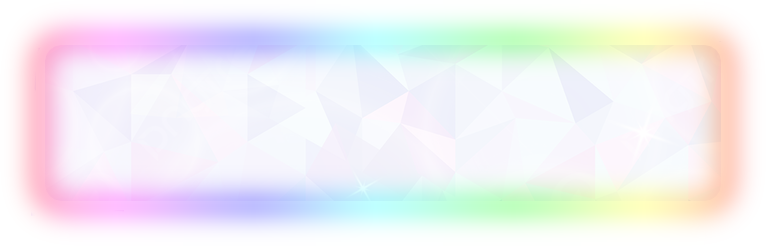
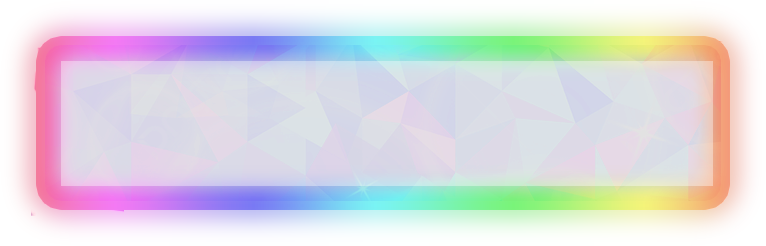
latest gacha

diff --git a/routes/gachaScreen/+page.svelte b/routes/gachaScreen/+page.svelte
@@ -6,6 +6,7 @@
     import bannerBG from "../../lib/assets/gacha/bannerBg.png"
     import bannerText from "../../lib/assets/gacha/bannerText.png"
     import rollCard from "../../lib/assets/gacha/rollBg.png"
+    import stars from "../../lib/assets/gacha/stars.png"
 
     var whichBanner //if SN banner active true : false
     var isRolling = false
@@ -44,6 +45,7 @@
             rollCard = "../../lib/assets/gacha/roll3star.png"
         }
     }
+    
 </script>
 
 {#if isRolling}
@@ -80,6 +82,7 @@
     {/if}
 
     <img class="bannerBg" style="z-index: -2;" src={bannerBG} alt="banners background">
+    <img id="bannerStars" src={stars} alt="stars">
 
     <div id="pullButtonDiv">
         <button class="pullButtons" on:click={() => ShowPull(1)}>Pull 1</button><br>
@@ -98,12 +101,12 @@
 
     #rollScreen{
         z-index: 2;
-        width: 100%;
+        width: 100vw;
         height: 100vh;
         background-color: rgba(44, 44, 63, 0.826);
         position: absolute;
         text-align: center;
-        padding-top: 9vh;
+        padding-top: 14vh;
         
     }
     #rollContainer{
@@ -113,7 +116,7 @@
         margin-inline: 0;
         display: flex;
         margin: auto;
-        width: 80%;
+        width: 80vw;
     }
     #rollsDiv{
         position: absolute;
@@ -124,7 +127,7 @@
         top: 30vh;
     }
     .rollCard{
-        height: 76vh;
+        width: 6vw;
         z-index: 3;
         margin: auto;
         padding: 0;
@@ -177,7 +180,7 @@
     }
     .pullButtons:hover{
         transform: scale(1.06);
-        animation: hueChange 3s linear infinite;
+        animation: hueChange 1s linear infinite;
     }
 
     @keyframes hueChange {
@@ -187,7 +190,15 @@
     100% {
         filter: hue-rotate(360deg);
     }
-}
+    }
+
+    #bannerStars{
+        position: absolute;
+        left: 17vw;
+        top: 0;
+        width: 66vw;
+        animation: hueChange 1s linear infinite;
+    }
 
 
     #buttons {
